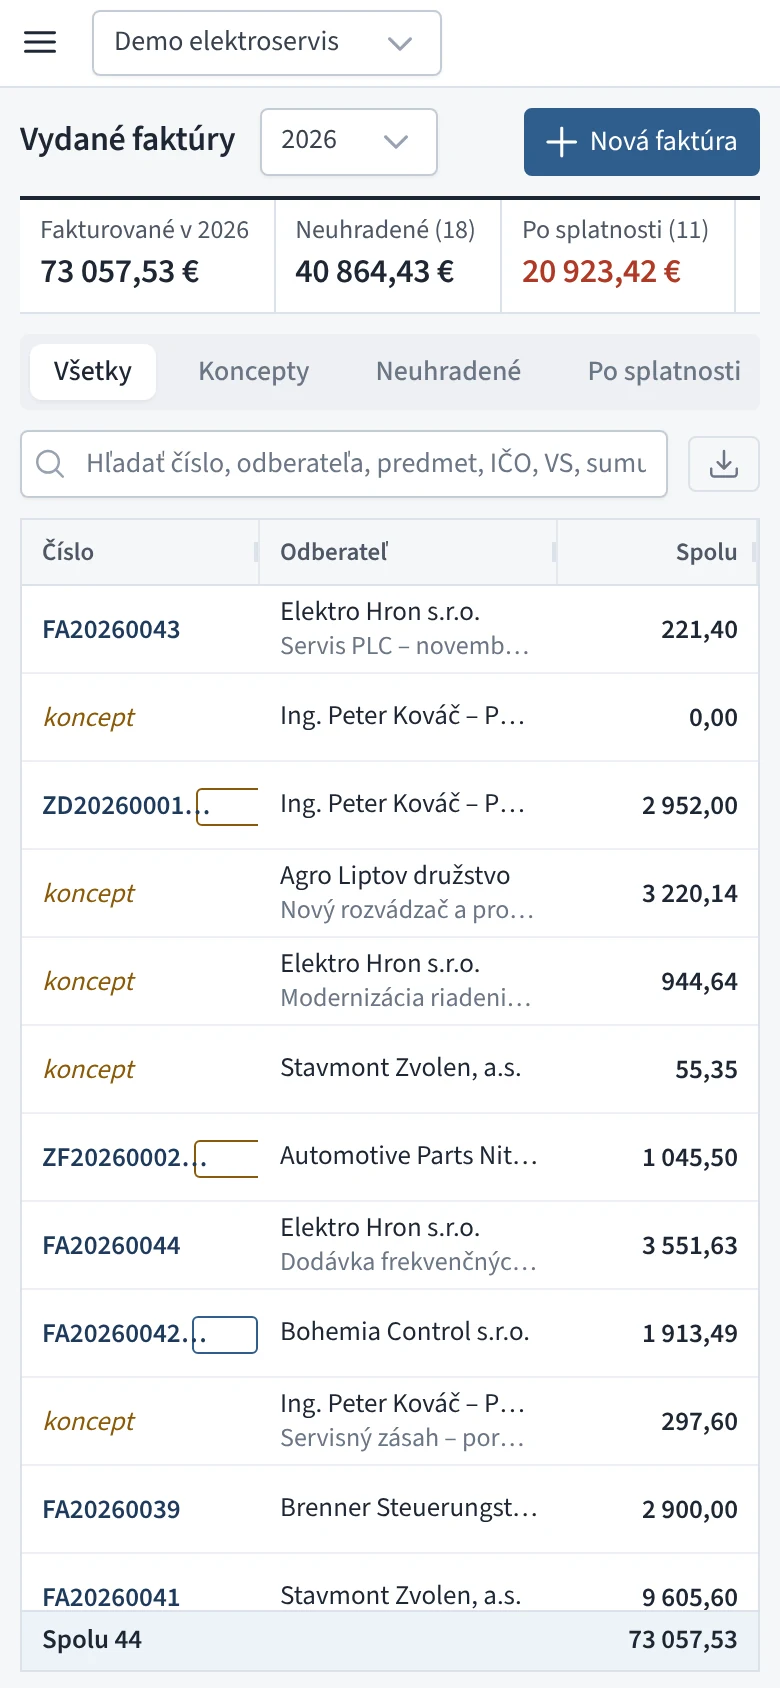
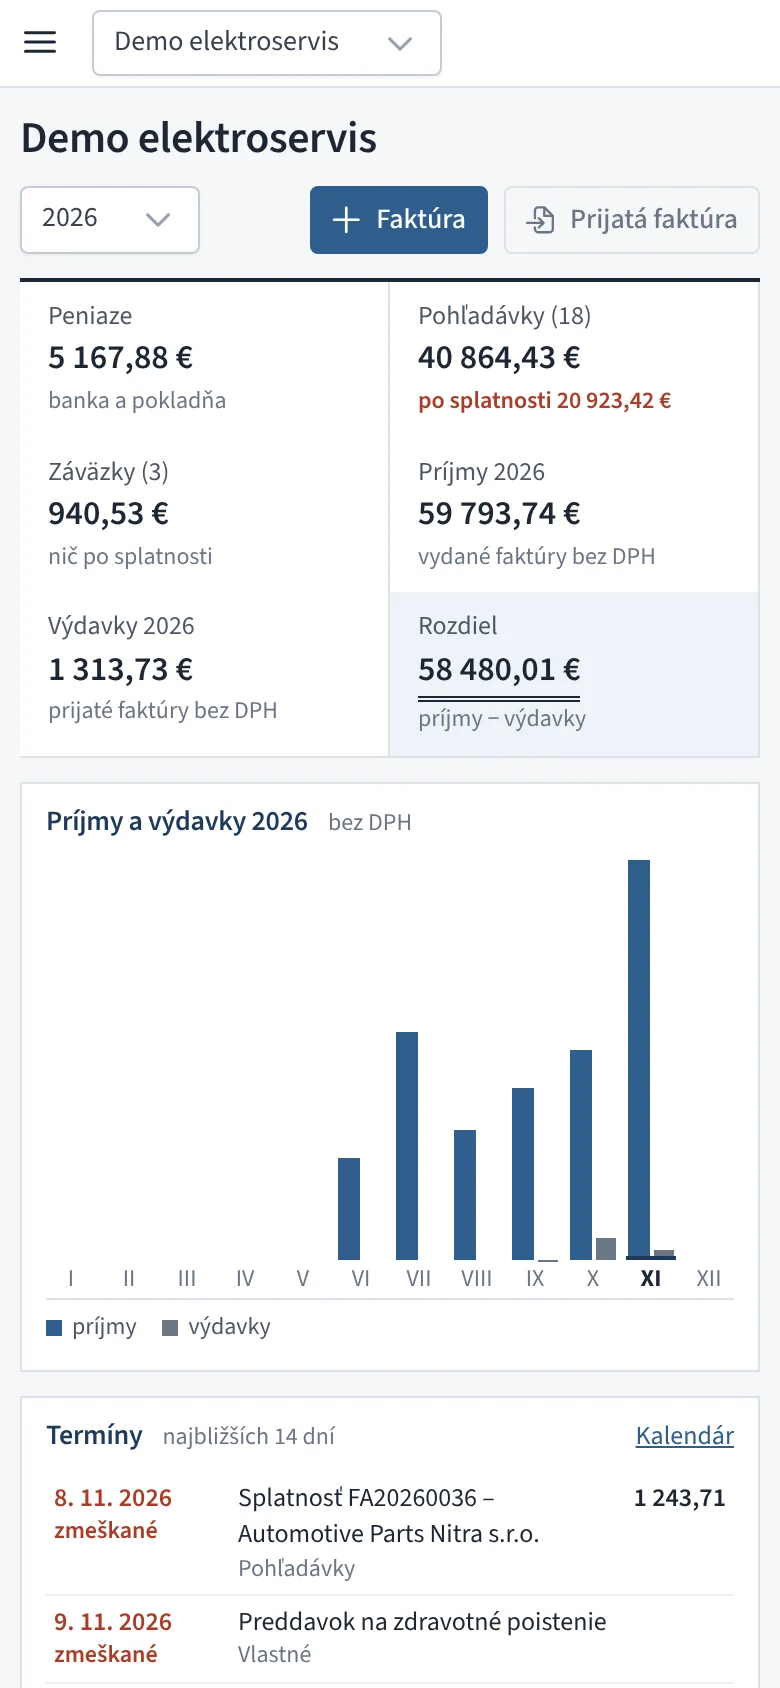
Web: úvodná snímka prehľadu menšia, celá a s medzerou hore aj dole
Claude-Session: https://claude.ai/code/session_01PQEcdFhaWeKY1yFsJHrTvr

diff --git a/site/style.css b/site/style.css
@@ -117,16 +117,15 @@ a:hover { color: var(--blue-deep); }
 .hero {
   background: var(--blue-deep);
   color: #fff;
-  padding: 56px 0 0;
+  padding: 56px 0;
   overflow: hidden;
 }
 .hero .wrap {
   display: grid;
-  grid-template-columns: minmax(0, 1fr) minmax(0, 440px);
+  grid-template-columns: minmax(0, 1fr) minmax(0, 480px);
   gap: 48px;
-  align-items: stretch;
+  align-items: center;
 }
-.hero-text { padding-bottom: 64px; }
 .hero h1 {
   font-size: clamp(2.25rem, 4.6vw, 3.5rem);
   line-height: 1.05;
@@ -164,20 +163,16 @@ a:hover { color: var(--blue-deep); }
 .btn[disabled] { opacity: 0.55; cursor: not-allowed; }
 .hero small { display: block; margin-top: 14px; color: #9fb2c8; font-size: 0.875rem; }
 
-/* snímka programu vyrastá zo spodku úvodu */
+/* snímka programu (prehľad firmy) celá, vedľa textu */
 .hero-shot {
   margin: 0;
-  overflow: hidden;
-  min-height: 320px; /* od vrchu nadpisu po spodok úvodu */
   background: var(--sheet);
-  box-shadow: 0 24px 64px rgba(6, 14, 26, 0.45);
+  box-shadow: 0 18px 48px rgba(6, 14, 26, 0.45);
 }
 .hero-shot img {
   display: block;
   width: 100%;
-  height: 100%;
-  object-fit: cover;
-  object-position: top left;
+  height: auto;
 }
 
 /* ---- obsah ---- */
@@ -291,15 +286,15 @@ footer.bottom nav { display: flex; flex-wrap: wrap; gap: 6px 20px; margin-left: 
 
 @media (max-width: 860px) {
   .hero .wrap { grid-template-columns: 1fr; gap: 32px; }
-  .hero-shot { aspect-ratio: 4 / 3; min-height: 0; }
-  .hero-text { padding-bottom: 0; }
+  .hero-shot { max-width: 560px; }
     .top nav { gap: 14px; }
 }
 @media (max-width: 560px) {
   .wrap { padding: 0 16px; }
   .top nav a.secondary { display: none; }
   .hero { padding-top: 36px; }
-  .hero-shot { aspect-ratio: 390 / 560; margin: 0 24px; }
+  .hero-shot { aspect-ratio: 390 / 560; margin: 0 24px; overflow: hidden; }
+  .hero-shot img { height: 100%; object-fit: cover; object-position: top; }
   section.block { padding: 52px 0; }
   .editions thead { display: none; }
   .editions tr { display: grid; grid-template-columns: 1fr auto; border-top: 1px solid var(--rule); padding: 12px 14px; }

diff --git a/site/index.html b/site/index.html
@@ -41,7 +41,7 @@
         <figure class="hero-shot">
           <picture>
             <source media="(max-width: 560px)" srcset="obrazky/uvod-mobil.webp" width="780" height="1688">
-            <img src="obrazky/uvod.webp" alt="Fiškus: vydané faktúry s prehľadom fakturovaných, neuhradených a faktúr po splatnosti" width="1440" height="900">
+            <img src="obrazky/uvod.webp" alt="Fiškus: prehľad firmy s peniazmi, pohľadávkami, grafom príjmov a výdavkov a termínmi" width="1600" height="1000">
           </picture>
         </figure>
       </div>
